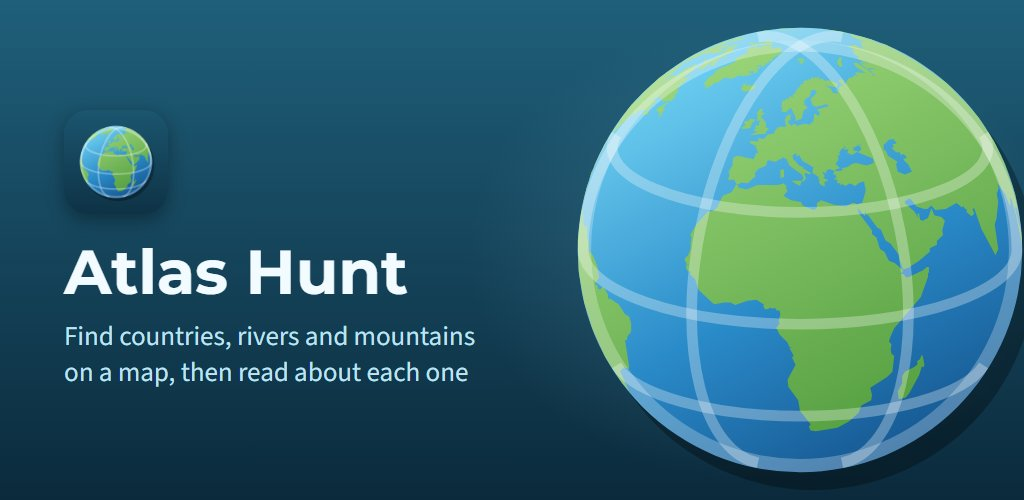
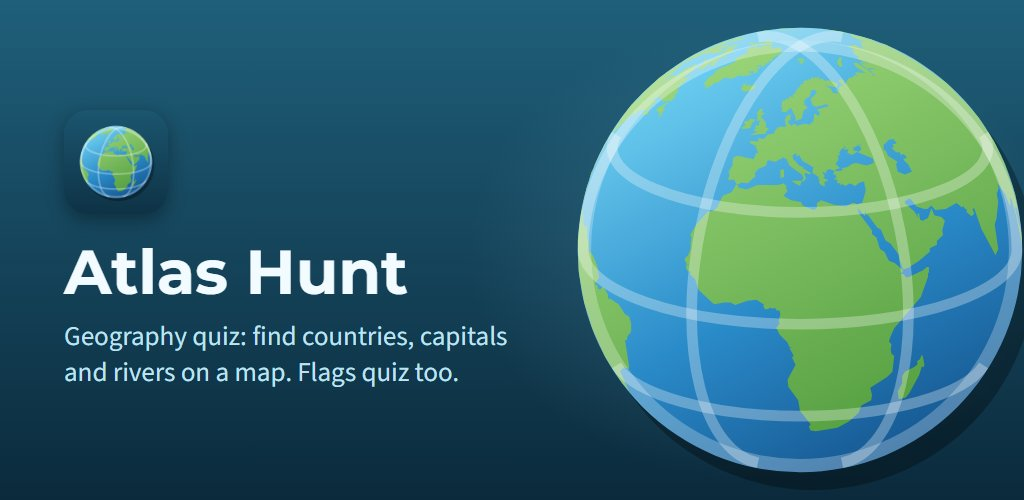
Syllabee's policy covers Silabina; Atlas Hunt pages take the listings' new short descriptions
- syllabee/privacy-policy.md: copied from ../learn_to_read (2cc7201), which adds Silabina (Romanian) as the fifth
  app; its pinned blob in test_site.py follows.
- Atlas Hunt pages: the hero lead, meta description and share image's alt in all six languages take each listing's
  new short description (../atlas_hunt ad2bca9: geography quiz, capitals and flags); the share images are the
  redrawn feature graphics. "How it plays" names countries, capitals and rivers on a blank map instead of the
  shapes of countries, rivers and mountains. The owner reviewed the translated lines.
- Home page: Atlas Hunt's card text is the new en-US short description.

Changed region(s): [[0.0625, 0.66, 0.5, 0.78]]

diff --git a/atlashunt/uk/index.html b/atlashunt/uk/index.html
@@ -5,7 +5,7 @@
 <meta charset="utf-8">
 <meta name="viewport" content="width=device-width, initial-scale=1">
 <title>Atlas Hunt: Map Quiz</title>
-<meta name="description" content="Знаходьте країни, річки й гори на карті та читайте про кожен об’єкт. Безкоштовно для Android: понад 130 ігор з картами шістьма мовами, офлайн.">
+<meta name="description" content="Вікторина з географії: знаходьте країни, столиці й річки на карті. А ще прапори. Безкоштовно для Android: понад 130 ігор з картами шістьма мовами, офлайн.">
 <meta name="theme-color" content="#0B2A3C">
 <link rel="canonical" href="https://forio-dk.github.io/atlashunt/uk/">
 <link rel="alternate" hreflang="en" href="https://forio-dk.github.io/atlashunt/">
@@ -23,12 +23,12 @@
 <meta property="og:type" content="website">
 <meta property="og:site_name" content="Atlas Hunt">
 <meta property="og:title" content="Atlas Hunt: Map Quiz">
-<meta property="og:description" content="Знаходьте країни, річки й гори на карті та читайте про кожен об’єкт. Безкоштовно для Android: понад 130 ігор з картами шістьма мовами, офлайн.">
+<meta property="og:description" content="Вікторина з географії: знаходьте країни, столиці й річки на карті. А ще прапори. Безкоштовно для Android: понад 130 ігор з картами шістьма мовами, офлайн.">
 <meta property="og:url" content="https://forio-dk.github.io/atlashunt/uk/">
 <meta property="og:image" content="https://forio-dk.github.io/atlashunt/assets/img/uk/og.jpg">
 <meta property="og:image:width" content="1024">
 <meta property="og:image:height" content="500">
-<meta property="og:image:alt" content="Atlas Hunt: знаходьте країни, річки й гори на карті та читайте про кожен об’єкт">
+<meta property="og:image:alt" content="Atlas Hunt. Вікторина з географії: знаходьте країни, столиці й річки на карті. А ще прапори.">
 <meta property="og:locale" content="uk_UA">
 <meta property="og:locale:alternate" content="en_US">
 <meta property="og:locale:alternate" content="da_DK">
@@ -36,7 +36,7 @@
 <meta property="og:locale:alternate" content="ro_RO">
 <meta property="og:locale:alternate" content="ru_RU">
 <meta name="twitter:card" content="summary_large_image">
-<script type="application/ld+json">{"@context": "https://schema.org", "@type": "MobileApplication", "applicationCategory": "GameApplication", "author": {"@type": "Organization", "name": "Forio"}, "description": "\u0417\u043d\u0430\u0445\u043e\u0434\u044c\u0442\u0435 \u043a\u0440\u0430\u0457\u043d\u0438, \u0440\u0456\u0447\u043a\u0438 \u0439 \u0433\u043e\u0440\u0438 \u043d\u0430 \u043a\u0430\u0440\u0442\u0456 \u0442\u0430 \u0447\u0438\u0442\u0430\u0439\u0442\u0435 \u043f\u0440\u043e \u043a\u043e\u0436\u0435\u043d \u043e\u0431\u2019\u0454\u043a\u0442.", "downloadUrl": "https://play.google.com/store/apps/details?id=dk.forio.atlashunt\u0026hl=uk\u0026referrer=utm_source%3Dforio-dk.github.io%26utm_medium%3Dwebsite%26utm_campaign%3Datlashunt-home", "image": "https://forio-dk.github.io/atlashunt/assets/img/uk/og.jpg", "inLanguage": "uk", "installUrl": "https://play.google.com/store/apps/details?id=dk.forio.atlashunt\u0026hl=uk\u0026referrer=utm_source%3Dforio-dk.github.io%26utm_medium%3Dwebsite%26utm_campaign%3Datlashunt-home", "name": "Atlas Hunt", "offers": {"@type": "Offer", "price": "0", "priceCurrency": "USD"}, "operatingSystem": "Android 8.0+", "url": "https://forio-dk.github.io/atlashunt/uk/"}</script>
+<script type="application/ld+json">{"@context": "https://schema.org", "@type": "MobileApplication", "applicationCategory": "GameApplication", "author": {"@type": "Organization", "name": "Forio"}, "description": "\u0412\u0456\u043a\u0442\u043e\u0440\u0438\u043d\u0430 \u0437 \u0433\u0435\u043e\u0433\u0440\u0430\u0444\u0456\u0457: \u0437\u043d\u0430\u0445\u043e\u0434\u044c\u0442\u0435 \u043a\u0440\u0430\u0457\u043d\u0438, \u0441\u0442\u043e\u043b\u0438\u0446\u0456 \u0439 \u0440\u0456\u0447\u043a\u0438 \u043d\u0430 \u043a\u0430\u0440\u0442\u0456. \u0410 \u0449\u0435 \u043f\u0440\u0430\u043f\u043e\u0440\u0438.", "downloadUrl": "https://play.google.com/store/apps/details?id=dk.forio.atlashunt\u0026hl=uk\u0026referrer=utm_source%3Dforio-dk.github.io%26utm_medium%3Dwebsite%26utm_campaign%3Datlashunt-home", "image": "https://forio-dk.github.io/atlashunt/assets/img/uk/og.jpg", "inLanguage": "uk", "installUrl": "https://play.google.com/store/apps/details?id=dk.forio.atlashunt\u0026hl=uk\u0026referrer=utm_source%3Dforio-dk.github.io%26utm_medium%3Dwebsite%26utm_campaign%3Datlashunt-home", "name": "Atlas Hunt", "offers": {"@type": "Offer", "price": "0", "priceCurrency": "USD"}, "operatingSystem": "Android 8.0+", "url": "https://forio-dk.github.io/atlashunt/uk/"}</script>
 </head>
 <body>
 <header class="nav">
@@ -56,7 +56,7 @@
   <section class="hero">
     <div class="hero-text">
       <h1>Atlas Hunt</h1>
-      <p class="lead">Знаходьте країни, річки й гори на карті та читайте про кожен об’єкт.</p>
+      <p class="lead">Вікторина з географії: знаходьте країни, столиці й річки на карті. А ще прапори.</p>
       <a class="play" href="https://play.google.com/store/apps/details?id=dk.forio.atlashunt&amp;hl=uk&amp;referrer=utm_source%3Dforio-dk.github.io%26utm_medium%3Dwebsite%26utm_campaign%3Datlashunt-home"><img src="/assets/badges/uk.png" width="646" height="250" alt="Завантажити з Google Play"></a>
       <p class="facts">Безкоштовно · 130+ ігор · Шість мов · Працює офлайн</p>
     </div>
@@ -71,7 +71,7 @@
 
   <section class="how">
     <h2>Як грати</h2>
-    <p class="sub">Ні підписів, ні підказок: лише обриси країн, річок і гір.</p>
+    <p class="sub">Ні підписів, ні підказок: лише країни, столиці й річки на порожній карті.</p>
     <ol class="steps numbered">
       <li>
         <img src="/atlashunt/assets/img/uk/step-1-200.webp" srcset="/atlashunt/assets/img/uk/step-1-200.webp 200w, /atlashunt/assets/img/uk/step-1-400.webp 400w" sizes="200px" width="200" height="356" alt="Ігри Європи: країни, столиці, річки, гірські хребти та інші" loading="lazy">

diff --git a/atlashunt/ru/index.html b/atlashunt/ru/index.html
@@ -5,7 +5,7 @@
 <meta charset="utf-8">
 <meta name="viewport" content="width=device-width, initial-scale=1">
 <title>Atlas Hunt: Map Quiz</title>
-<meta name="description" content="Находите страны, реки и горы на карте и читайте о каждом объекте. Бесплатно для Android: более 130 игр по картам на шести языках, офлайн.">
+<meta name="description" content="Викторина по географии: находите страны, столицы и реки на карте. А ещё флаги. Бесплатно для Android: более 130 игр по картам на шести языках, офлайн.">
 <meta name="theme-color" content="#0B2A3C">
 <link rel="canonical" href="https://forio-dk.github.io/atlashunt/ru/">
 <link rel="alternate" hreflang="en" href="https://forio-dk.github.io/atlashunt/">
@@ -23,12 +23,12 @@
 <meta property="og:type" content="website">
 <meta property="og:site_name" content="Atlas Hunt">
 <meta property="og:title" content="Atlas Hunt: Map Quiz">
-<meta property="og:description" content="Находите страны, реки и горы на карте и читайте о каждом объекте. Бесплатно для Android: более 130 игр по картам на шести языках, офлайн.">
+<meta property="og:description" content="Викторина по географии: находите страны, столицы и реки на карте. А ещё флаги. Бесплатно для Android: более 130 игр по картам на шести языках, офлайн.">
 <meta property="og:url" content="https://forio-dk.github.io/atlashunt/ru/">
 <meta property="og:image" content="https://forio-dk.github.io/atlashunt/assets/img/ru/og.jpg">
 <meta property="og:image:width" content="1024">
 <meta property="og:image:height" content="500">
-<meta property="og:image:alt" content="Atlas Hunt: находите страны, реки и горы на карте и читайте о каждом объекте">
+<meta property="og:image:alt" content="Atlas Hunt. Викторина по географии: находите страны, столицы и реки на карте. А ещё флаги.">
 <meta property="og:locale" content="ru_RU">
 <meta property="og:locale:alternate" content="en_US">
 <meta property="og:locale:alternate" content="da_DK">
@@ -36,7 +36,7 @@
 <meta property="og:locale:alternate" content="ro_RO">
 <meta property="og:locale:alternate" content="uk_UA">
 <meta name="twitter:card" content="summary_large_image">
-<script type="application/ld+json">{"@context": "https://schema.org", "@type": "MobileApplication", "applicationCategory": "GameApplication", "author": {"@type": "Organization", "name": "Forio"}, "description": "\u041d\u0430\u0445\u043e\u0434\u0438\u0442\u0435 \u0441\u0442\u0440\u0430\u043d\u044b, \u0440\u0435\u043a\u0438 \u0438 \u0433\u043e\u0440\u044b \u043d\u0430 \u043a\u0430\u0440\u0442\u0435 \u0438 \u0447\u0438\u0442\u0430\u0439\u0442\u0435 \u043e \u043a\u0430\u0436\u0434\u043e\u043c \u043e\u0431\u044a\u0435\u043a\u0442\u0435.", "downloadUrl": "https://play.google.com/store/apps/details?id=dk.forio.atlashunt\u0026hl=ru\u0026referrer=utm_source%3Dforio-dk.github.io%26utm_medium%3Dwebsite%26utm_campaign%3Datlashunt-home", "image": "https://forio-dk.github.io/atlashunt/assets/img/ru/og.jpg", "inLanguage": "ru", "installUrl": "https://play.google.com/store/apps/details?id=dk.forio.atlashunt\u0026hl=ru\u0026referrer=utm_source%3Dforio-dk.github.io%26utm_medium%3Dwebsite%26utm_campaign%3Datlashunt-home", "name": "Atlas Hunt", "offers": {"@type": "Offer", "price": "0", "priceCurrency": "USD"}, "operatingSystem": "Android 8.0+", "url": "https://forio-dk.github.io/atlashunt/ru/"}</script>
+<script type="application/ld+json">{"@context": "https://schema.org", "@type": "MobileApplication", "applicationCategory": "GameApplication", "author": {"@type": "Organization", "name": "Forio"}, "description": "\u0412\u0438\u043a\u0442\u043e\u0440\u0438\u043d\u0430 \u043f\u043e \u0433\u0435\u043e\u0433\u0440\u0430\u0444\u0438\u0438: \u043d\u0430\u0445\u043e\u0434\u0438\u0442\u0435 \u0441\u0442\u0440\u0430\u043d\u044b, \u0441\u0442\u043e\u043b\u0438\u0446\u044b \u0438 \u0440\u0435\u043a\u0438 \u043d\u0430 \u043a\u0430\u0440\u0442\u0435. \u0410 \u0435\u0449\u0451 \u0444\u043b\u0430\u0433\u0438.", "downloadUrl": "https://play.google.com/store/apps/details?id=dk.forio.atlashunt\u0026hl=ru\u0026referrer=utm_source%3Dforio-dk.github.io%26utm_medium%3Dwebsite%26utm_campaign%3Datlashunt-home", "image": "https://forio-dk.github.io/atlashunt/assets/img/ru/og.jpg", "inLanguage": "ru", "installUrl": "https://play.google.com/store/apps/details?id=dk.forio.atlashunt\u0026hl=ru\u0026referrer=utm_source%3Dforio-dk.github.io%26utm_medium%3Dwebsite%26utm_campaign%3Datlashunt-home", "name": "Atlas Hunt", "offers": {"@type": "Offer", "price": "0", "priceCurrency": "USD"}, "operatingSystem": "Android 8.0+", "url": "https://forio-dk.github.io/atlashunt/ru/"}</script>
 </head>
 <body>
 <header class="nav">
@@ -56,7 +56,7 @@
   <section class="hero">
     <div class="hero-text">
       <h1>Atlas Hunt</h1>
-      <p class="lead">Находите страны, реки и горы на карте и читайте о каждом объекте.</p>
+      <p class="lead">Викторина по географии: находите страны, столицы и реки на карте. А ещё флаги.</p>
       <a class="play" href="https://play.google.com/store/apps/details?id=dk.forio.atlashunt&amp;hl=ru&amp;referrer=utm_source%3Dforio-dk.github.io%26utm_medium%3Dwebsite%26utm_campaign%3Datlashunt-home"><img src="/assets/badges/ru.png" width="646" height="250" alt="Скачать из Google Play"></a>
       <p class="facts">Бесплатно · 130+ игр · Шесть языков · Работает офлайн</p>
     </div>
@@ -71,7 +71,7 @@
 
   <section class="how">
     <h2>Как играть</h2>
-    <p class="sub">Ни подписей, ни подсказок: только очертания стран, рек и гор.</p>
+    <p class="sub">Ни подписей, ни подсказок: только страны, столицы и реки на пустой карте.</p>
     <ol class="steps numbered">
       <li>
         <img src="/atlashunt/assets/img/ru/step-1-200.webp" srcset="/atlashunt/assets/img/ru/step-1-200.webp 200w, /atlashunt/assets/img/ru/step-1-400.webp 400w" sizes="200px" width="200" height="356" alt="Игры Европы: страны, столицы, реки, горные хребты и другие" loading="lazy">

diff --git a/atlashunt/ro/index.html b/atlashunt/ro/index.html
@@ -5,7 +5,7 @@
 <meta charset="utf-8">
 <meta name="viewport" content="width=device-width, initial-scale=1">
 <title>Atlas Hunt: Map Quiz</title>
-<meta name="description" content="Găsește țări, râuri și munți pe hartă, apoi citește despre fiecare. Gratuit pentru Android: peste 130 de jocuri pe hărți, în șase limbi, offline.">
+<meta name="description" content="Quiz de geografie: găsește țări, capitale și râuri pe hartă. Și steagurile. Gratuit pentru Android: peste 130 de jocuri pe hărți, în șase limbi, offline.">
 <meta name="theme-color" content="#0B2A3C">
 <link rel="canonical" href="https://forio-dk.github.io/atlashunt/ro/">
 <link rel="alternate" hreflang="en" href="https://forio-dk.github.io/atlashunt/">
@@ -23,12 +23,12 @@
 <meta property="og:type" content="website">
 <meta property="og:site_name" content="Atlas Hunt">
 <meta property="og:title" content="Atlas Hunt: Map Quiz">
-<meta property="og:description" content="Găsește țări, râuri și munți pe hartă, apoi citește despre fiecare. Gratuit pentru Android: peste 130 de jocuri pe hărți, în șase limbi, offline.">
+<meta property="og:description" content="Quiz de geografie: găsește țări, capitale și râuri pe hartă. Și steagurile. Gratuit pentru Android: peste 130 de jocuri pe hărți, în șase limbi, offline.">
 <meta property="og:url" content="https://forio-dk.github.io/atlashunt/ro/">
 <meta property="og:image" content="https://forio-dk.github.io/atlashunt/assets/img/ro/og.jpg">
 <meta property="og:image:width" content="1024">
 <meta property="og:image:height" content="500">
-<meta property="og:image:alt" content="Atlas Hunt: găsește țări, râuri și munți pe hartă, apoi citește despre fiecare">
+<meta property="og:image:alt" content="Atlas Hunt. Quiz de geografie: găsește țări, capitale și râuri pe hartă. Și steagurile.">
 <meta property="og:locale" content="ro_RO">
 <meta property="og:locale:alternate" content="en_US">
 <meta property="og:locale:alternate" content="da_DK">
@@ -36,7 +36,7 @@
 <meta property="og:locale:alternate" content="ru_RU">
 <meta property="og:locale:alternate" content="uk_UA">
 <meta name="twitter:card" content="summary_large_image">
-<script type="application/ld+json">{"@context": "https://schema.org", "@type": "MobileApplication", "applicationCategory": "GameApplication", "author": {"@type": "Organization", "name": "Forio"}, "description": "G\u0103se\u0219te \u021b\u0103ri, r\u00e2uri \u0219i mun\u021bi pe hart\u0103, apoi cite\u0219te despre fiecare.", "downloadUrl": "https://play.google.com/store/apps/details?id=dk.forio.atlashunt\u0026hl=ro\u0026referrer=utm_source%3Dforio-dk.github.io%26utm_medium%3Dwebsite%26utm_campaign%3Datlashunt-home", "image": "https://forio-dk.github.io/atlashunt/assets/img/ro/og.jpg", "inLanguage": "ro", "installUrl": "https://play.google.com/store/apps/details?id=dk.forio.atlashunt\u0026hl=ro\u0026referrer=utm_source%3Dforio-dk.github.io%26utm_medium%3Dwebsite%26utm_campaign%3Datlashunt-home", "name": "Atlas Hunt", "offers": {"@type": "Offer", "price": "0", "priceCurrency": "USD"}, "operatingSystem": "Android 8.0+", "url": "https://forio-dk.github.io/atlashunt/ro/"}</script>
+<script type="application/ld+json">{"@context": "https://schema.org", "@type": "MobileApplication", "applicationCategory": "GameApplication", "author": {"@type": "Organization", "name": "Forio"}, "description": "Quiz de geografie: g\u0103se\u0219te \u021b\u0103ri, capitale \u0219i r\u00e2uri pe hart\u0103. \u0218i steagurile.", "downloadUrl": "https://play.google.com/store/apps/details?id=dk.forio.atlashunt\u0026hl=ro\u0026referrer=utm_source%3Dforio-dk.github.io%26utm_medium%3Dwebsite%26utm_campaign%3Datlashunt-home", "image": "https://forio-dk.github.io/atlashunt/assets/img/ro/og.jpg", "inLanguage": "ro", "installUrl": "https://play.google.com/store/apps/details?id=dk.forio.atlashunt\u0026hl=ro\u0026referrer=utm_source%3Dforio-dk.github.io%26utm_medium%3Dwebsite%26utm_campaign%3Datlashunt-home", "name": "Atlas Hunt", "offers": {"@type": "Offer", "price": "0", "priceCurrency": "USD"}, "operatingSystem": "Android 8.0+", "url": "https://forio-dk.github.io/atlashunt/ro/"}</script>
 </head>
 <body>
 <header class="nav">
@@ -56,7 +56,7 @@
   <section class="hero">
     <div class="hero-text">
       <h1>Atlas Hunt</h1>
-      <p class="lead">Găsește țări, râuri și munți pe hartă, apoi citește despre fiecare.</p>
+      <p class="lead">Quiz de geografie: găsește țări, capitale și râuri pe hartă. Și steagurile.</p>
       <a class="play" href="https://play.google.com/store/apps/details?id=dk.forio.atlashunt&amp;hl=ro&amp;referrer=utm_source%3Dforio-dk.github.io%26utm_medium%3Dwebsite%26utm_campaign%3Datlashunt-home"><img src="/assets/badges/ro.png" width="646" height="250" alt="Descarcă de pe Google Play"></a>
       <p class="facts">Gratuit · 130+ de jocuri · Șase limbi · Funcționează offline</p>
     </div>
@@ -71,7 +71,7 @@
 
   <section class="how">
     <h2>Cum se joacă</h2>
-    <p class="sub">Fără nume, fără indicii: doar formele țărilor, râurilor și munților.</p>
+    <p class="sub">Fără nume, fără indicii: doar țări, capitale și râuri pe o hartă goală.</p>
     <ol class="steps numbered">
       <li>
         <img src="/atlashunt/assets/img/ro/step-1-200.webp" srcset="/atlashunt/assets/img/ro/step-1-200.webp 200w, /atlashunt/assets/img/ro/step-1-400.webp 400w" sizes="200px" width="200" height="356" alt="Jocurile Europei: țări, capitale, râuri, lanțuri muntoase și altele" loading="lazy">

diff --git a/atlashunt/da/index.html b/atlashunt/da/index.html
@@ -5,7 +5,7 @@
 <meta charset="utf-8">
 <meta name="viewport" content="width=device-width, initial-scale=1">
 <title>Atlas Hunt: Map Quiz</title>
-<meta name="description" content="Find lande, floder og bjerge på et kort, og læs så om hvert af dem. Gratis til Android: 130+ kortspil på seks sprog, offline.">
+<meta name="description" content="Quiz i geografi: find lande, hovedstæder og floder på et kort. Plus en flagquiz. Gratis til Android: 130+ kortspil på seks sprog, offline.">
 <meta name="theme-color" content="#0B2A3C">
 <link rel="canonical" href="https://forio-dk.github.io/atlashunt/da/">
 <link rel="alternate" hreflang="en" href="https://forio-dk.github.io/atlashunt/">
@@ -23,12 +23,12 @@
 <meta property="og:type" content="website">
 <meta property="og:site_name" content="Atlas Hunt">
 <meta property="og:title" content="Atlas Hunt: Map Quiz">
-<meta property="og:description" content="Find lande, floder og bjerge på et kort, og læs så om hvert af dem. Gratis til Android: 130+ kortspil på seks sprog, offline.">
+<meta property="og:description" content="Quiz i geografi: find lande, hovedstæder og floder på et kort. Plus en flagquiz. Gratis til Android: 130+ kortspil på seks sprog, offline.">
 <meta property="og:url" content="https://forio-dk.github.io/atlashunt/da/">
 <meta property="og:image" content="https://forio-dk.github.io/atlashunt/assets/img/da/og.jpg">
 <meta property="og:image:width" content="1024">
 <meta property="og:image:height" content="500">
-<meta property="og:image:alt" content="Atlas Hunt: find lande, floder og bjerge på et kort, og læs så om hvert af dem">
+<meta property="og:image:alt" content="Atlas Hunt. Quiz i geografi: find lande, hovedstæder og floder på et kort. Plus en flagquiz.">
 <meta property="og:locale" content="da_DK">
 <meta property="og:locale:alternate" content="en_US">
 <meta property="og:locale:alternate" content="it_IT">
@@ -36,7 +36,7 @@
 <meta property="og:locale:alternate" content="ru_RU">
 <meta property="og:locale:alternate" content="uk_UA">
 <meta name="twitter:card" content="summary_large_image">
-<script type="application/ld+json">{"@context": "https://schema.org", "@type": "MobileApplication", "applicationCategory": "GameApplication", "author": {"@type": "Organization", "name": "Forio"}, "description": "Find lande, floder og bjerge p\u00e5 et kort, og l\u00e6s s\u00e5 om hvert af dem.", "downloadUrl": "https://play.google.com/store/apps/details?id=dk.forio.atlashunt\u0026hl=da\u0026referrer=utm_source%3Dforio-dk.github.io%26utm_medium%3Dwebsite%26utm_campaign%3Datlashunt-home", "image": "https://forio-dk.github.io/atlashunt/assets/img/da/og.jpg", "inLanguage": "da", "installUrl": "https://play.google.com/store/apps/details?id=dk.forio.atlashunt\u0026hl=da\u0026referrer=utm_source%3Dforio-dk.github.io%26utm_medium%3Dwebsite%26utm_campaign%3Datlashunt-home", "name": "Atlas Hunt", "offers": {"@type": "Offer", "price": "0", "priceCurrency": "USD"}, "operatingSystem": "Android 8.0+", "url": "https://forio-dk.github.io/atlashunt/da/"}</script>
+<script type="application/ld+json">{"@context": "https://schema.org", "@type": "MobileApplication", "applicationCategory": "GameApplication", "author": {"@type": "Organization", "name": "Forio"}, "description": "Quiz i geografi: find lande, hovedst\u00e6der og floder p\u00e5 et kort. Plus en flagquiz.", "downloadUrl": "https://play.google.com/store/apps/details?id=dk.forio.atlashunt\u0026hl=da\u0026referrer=utm_source%3Dforio-dk.github.io%26utm_medium%3Dwebsite%26utm_campaign%3Datlashunt-home", "image": "https://forio-dk.github.io/atlashunt/assets/img/da/og.jpg", "inLanguage": "da", "installUrl": "https://play.google.com/store/apps/details?id=dk.forio.atlashunt\u0026hl=da\u0026referrer=utm_source%3Dforio-dk.github.io%26utm_medium%3Dwebsite%26utm_campaign%3Datlashunt-home", "name": "Atlas Hunt", "offers": {"@type": "Offer", "price": "0", "priceCurrency": "USD"}, "operatingSystem": "Android 8.0+", "url": "https://forio-dk.github.io/atlashunt/da/"}</script>
 </head>
 <body>
 <header class="nav">
@@ -56,7 +56,7 @@
   <section class="hero">
     <div class="hero-text">
       <h1>Atlas Hunt</h1>
-      <p class="lead">Find lande, floder og bjerge på et kort, og læs så om hvert af dem.</p>
+      <p class="lead">Quiz i geografi: find lande, hovedstæder og floder på et kort. Plus en flagquiz.</p>
       <a class="play" href="https://play.google.com/store/apps/details?id=dk.forio.atlashunt&amp;hl=da&amp;referrer=utm_source%3Dforio-dk.github.io%26utm_medium%3Dwebsite%26utm_campaign%3Datlashunt-home"><img src="/assets/badges/da.png" width="646" height="250" alt="Hent i Google Play"></a>
       <p class="facts">Gratis · 130+ spil · Seks sprog · Virker offline</p>
     </div>
@@ -71,7 +71,7 @@
 
   <section class="how">
     <h2>Sådan spiller du</h2>
-    <p class="sub">Ingen navne, ingen hints: kun omridsene af lande, floder og bjerge.</p>
+    <p class="sub">Ingen navne, ingen hints: kun lande, hovedstæder og floder på et tomt kort.</p>
     <ol class="steps numbered">
       <li>
         <img src="/atlashunt/assets/img/da/step-1-200.webp" srcset="/atlashunt/assets/img/da/step-1-200.webp 200w, /atlashunt/assets/img/da/step-1-400.webp 400w" sizes="200px" width="200" height="356" alt="Europas spil: lande, hovedstæder, floder, bjergkæder og mere" loading="lazy">

diff --git a/atlashunt/it/index.html b/atlashunt/it/index.html
@@ -5,7 +5,7 @@
 <meta charset="utf-8">
 <meta name="viewport" content="width=device-width, initial-scale=1">
 <title>Atlas Hunt: Map Quiz</title>
-<meta name="description" content="Trova paesi, fiumi e montagne sulla mappa, poi leggi di ciascuno. Gratis per Android: oltre 130 giochi sulle mappe in sei lingue, offline.">
+<meta name="description" content="Quiz di geografia: trova paesi, capitali e fiumi sulla mappa. E le bandiere. Gratis per Android: oltre 130 giochi sulle mappe in sei lingue, offline.">
 <meta name="theme-color" content="#0B2A3C">
 <link rel="canonical" href="https://forio-dk.github.io/atlashunt/it/">
 <link rel="alternate" hreflang="en" href="https://forio-dk.github.io/atlashunt/">
@@ -23,12 +23,12 @@
 <meta property="og:type" content="website">
 <meta property="og:site_name" content="Atlas Hunt">
 <meta property="og:title" content="Atlas Hunt: Map Quiz">
-<meta property="og:description" content="Trova paesi, fiumi e montagne sulla mappa, poi leggi di ciascuno. Gratis per Android: oltre 130 giochi sulle mappe in sei lingue, offline.">
+<meta property="og:description" content="Quiz di geografia: trova paesi, capitali e fiumi sulla mappa. E le bandiere. Gratis per Android: oltre 130 giochi sulle mappe in sei lingue, offline.">
 <meta property="og:url" content="https://forio-dk.github.io/atlashunt/it/">
 <meta property="og:image" content="https://forio-dk.github.io/atlashunt/assets/img/it/og.jpg">
 <meta property="og:image:width" content="1024">
 <meta property="og:image:height" content="500">
-<meta property="og:image:alt" content="Atlas Hunt: trova paesi, fiumi e montagne sulla mappa, poi leggi di ciascuno">
+<meta property="og:image:alt" content="Atlas Hunt. Quiz di geografia: trova paesi, capitali e fiumi sulla mappa. E le bandiere.">
 <meta property="og:locale" content="it_IT">
 <meta property="og:locale:alternate" content="en_US">
 <meta property="og:locale:alternate" content="da_DK">
@@ -36,7 +36,7 @@
 <meta property="og:locale:alternate" content="ru_RU">
 <meta property="og:locale:alternate" content="uk_UA">
 <meta name="twitter:card" content="summary_large_image">
-<script type="application/ld+json">{"@context": "https://schema.org", "@type": "MobileApplication", "applicationCategory": "GameApplication", "author": {"@type": "Organization", "name": "Forio"}, "description": "Trova paesi, fiumi e montagne sulla mappa, poi leggi di ciascuno.", "downloadUrl": "https://play.google.com/store/apps/details?id=dk.forio.atlashunt\u0026hl=it\u0026referrer=utm_source%3Dforio-dk.github.io%26utm_medium%3Dwebsite%26utm_campaign%3Datlashunt-home", "image": "https://forio-dk.github.io/atlashunt/assets/img/it/og.jpg", "inLanguage": "it", "installUrl": "https://play.google.com/store/apps/details?id=dk.forio.atlashunt\u0026hl=it\u0026referrer=utm_source%3Dforio-dk.github.io%26utm_medium%3Dwebsite%26utm_campaign%3Datlashunt-home", "name": "Atlas Hunt", "offers": {"@type": "Offer", "price": "0", "priceCurrency": "USD"}, "operatingSystem": "Android 8.0+", "url": "https://forio-dk.github.io/atlashunt/it/"}</script>
+<script type="application/ld+json">{"@context": "https://schema.org", "@type": "MobileApplication", "applicationCategory": "GameApplication", "author": {"@type": "Organization", "name": "Forio"}, "description": "Quiz di geografia: trova paesi, capitali e fiumi sulla mappa. E le bandiere.", "downloadUrl": "https://play.google.com/store/apps/details?id=dk.forio.atlashunt\u0026hl=it\u0026referrer=utm_source%3Dforio-dk.github.io%26utm_medium%3Dwebsite%26utm_campaign%3Datlashunt-home", "image": "https://forio-dk.github.io/atlashunt/assets/img/it/og.jpg", "inLanguage": "it", "installUrl": "https://play.google.com/store/apps/details?id=dk.forio.atlashunt\u0026hl=it\u0026referrer=utm_source%3Dforio-dk.github.io%26utm_medium%3Dwebsite%26utm_campaign%3Datlashunt-home", "name": "Atlas Hunt", "offers": {"@type": "Offer", "price": "0", "priceCurrency": "USD"}, "operatingSystem": "Android 8.0+", "url": "https://forio-dk.github.io/atlashunt/it/"}</script>
 </head>
 <body>
 <header class="nav">
@@ -56,7 +56,7 @@
   <section class="hero">
     <div class="hero-text">
       <h1>Atlas Hunt</h1>
-      <p class="lead">Trova paesi, fiumi e montagne sulla mappa, poi leggi di ciascuno.</p>
+      <p class="lead">Quiz di geografia: trova paesi, capitali e fiumi sulla mappa. E le bandiere.</p>
       <a class="play" href="https://play.google.com/store/apps/details?id=dk.forio.atlashunt&amp;hl=it&amp;referrer=utm_source%3Dforio-dk.github.io%26utm_medium%3Dwebsite%26utm_campaign%3Datlashunt-home"><img src="/assets/badges/it.png" width="646" height="250" alt="Disponibile su Google Play"></a>
       <p class="facts">Gratis · 130+ giochi · Sei lingue · Funziona offline</p>
     </div>
@@ -71,7 +71,7 @@
 
   <section class="how">
     <h2>Come si gioca</h2>
-    <p class="sub">Niente nomi, niente indizi: solo le forme di paesi, fiumi e montagne.</p>
+    <p class="sub">Niente nomi, niente indizi: solo paesi, capitali e fiumi su una mappa muta.</p>
     <ol class="steps numbered">
       <li>
         <img src="/atlashunt/assets/img/it/step-1-200.webp" srcset="/atlashunt/assets/img/it/step-1-200.webp 200w, /atlashunt/assets/img/it/step-1-400.webp 400w" sizes="200px" width="200" height="356" alt="I giochi dell&#39;Europa: paesi, capitali, fiumi, catene montuose e altro" loading="lazy">

diff --git a/atlashunt/index.html b/atlashunt/index.html
@@ -5,7 +5,7 @@
 <meta charset="utf-8">
 <meta name="viewport" content="width=device-width, initial-scale=1">
 <title>Atlas Hunt: Map Quiz</title>
-<meta name="description" content="Find countries, rivers and mountains on a map, then read about each one. Free for Android: 130+ map games in six languages, offline.">
+<meta name="description" content="Geography quiz: find countries, capitals and rivers on a map. Flags quiz too. Free for Android: 130+ map games in six languages, offline.">
 <meta name="theme-color" content="#0B2A3C">
 <link rel="canonical" href="https://forio-dk.github.io/atlashunt/">
 <link rel="alternate" hreflang="en" href="https://forio-dk.github.io/atlashunt/">
@@ -23,12 +23,12 @@
 <meta property="og:type" content="website">
 <meta property="og:site_name" content="Atlas Hunt">
 <meta property="og:title" content="Atlas Hunt: Map Quiz">
-<meta property="og:description" content="Find countries, rivers and mountains on a map, then read about each one. Free for Android: 130+ map games in six languages, offline.">
+<meta property="og:description" content="Geography quiz: find countries, capitals and rivers on a map. Flags quiz too. Free for Android: 130+ map games in six languages, offline.">
 <meta property="og:url" content="https://forio-dk.github.io/atlashunt/">
 <meta property="og:image" content="https://forio-dk.github.io/atlashunt/assets/img/en/og.jpg">
 <meta property="og:image:width" content="1024">
 <meta property="og:image:height" content="500">
-<meta property="og:image:alt" content="Atlas Hunt: find countries, rivers and mountains on a map, then read about each one">
+<meta property="og:image:alt" content="Atlas Hunt. Geography quiz: find countries, capitals and rivers on a map. Flags quiz too.">
 <meta property="og:locale" content="en_US">
 <meta property="og:locale:alternate" content="da_DK">
 <meta property="og:locale:alternate" content="it_IT">
@@ -36,7 +36,7 @@
 <meta property="og:locale:alternate" content="ru_RU">
 <meta property="og:locale:alternate" content="uk_UA">
 <meta name="twitter:card" content="summary_large_image">
-<script type="application/ld+json">{"@context": "https://schema.org", "@type": "MobileApplication", "applicationCategory": "GameApplication", "author": {"@type": "Organization", "name": "Forio"}, "description": "Find countries, rivers and mountains on a map, then read about each one.", "downloadUrl": "https://play.google.com/store/apps/details?id=dk.forio.atlashunt\u0026hl=en\u0026referrer=utm_source%3Dforio-dk.github.io%26utm_medium%3Dwebsite%26utm_campaign%3Datlashunt-home", "image": "https://forio-dk.github.io/atlashunt/assets/img/en/og.jpg", "inLanguage": "en", "installUrl": "https://play.google.com/store/apps/details?id=dk.forio.atlashunt\u0026hl=en\u0026referrer=utm_source%3Dforio-dk.github.io%26utm_medium%3Dwebsite%26utm_campaign%3Datlashunt-home", "name": "Atlas Hunt", "offers": {"@type": "Offer", "price": "0", "priceCurrency": "USD"}, "operatingSystem": "Android 8.0+", "url": "https://forio-dk.github.io/atlashunt/"}</script>
+<script type="application/ld+json">{"@context": "https://schema.org", "@type": "MobileApplication", "applicationCategory": "GameApplication", "author": {"@type": "Organization", "name": "Forio"}, "description": "Geography quiz: find countries, capitals and rivers on a map. Flags quiz too.", "downloadUrl": "https://play.google.com/store/apps/details?id=dk.forio.atlashunt\u0026hl=en\u0026referrer=utm_source%3Dforio-dk.github.io%26utm_medium%3Dwebsite%26utm_campaign%3Datlashunt-home", "image": "https://forio-dk.github.io/atlashunt/assets/img/en/og.jpg", "inLanguage": "en", "installUrl": "https://play.google.com/store/apps/details?id=dk.forio.atlashunt\u0026hl=en\u0026referrer=utm_source%3Dforio-dk.github.io%26utm_medium%3Dwebsite%26utm_campaign%3Datlashunt-home", "name": "Atlas Hunt", "offers": {"@type": "Offer", "price": "0", "priceCurrency": "USD"}, "operatingSystem": "Android 8.0+", "url": "https://forio-dk.github.io/atlashunt/"}</script>
 </head>
 <body>
 <header class="nav">
@@ -56,7 +56,7 @@
   <section class="hero">
     <div class="hero-text">
       <h1>Atlas Hunt</h1>
-      <p class="lead">Find countries, rivers and mountains on a map, then read about each one.</p>
+      <p class="lead">Geography quiz: find countries, capitals and rivers on a map. Flags quiz too.</p>
       <a class="play" href="https://play.google.com/store/apps/details?id=dk.forio.atlashunt&amp;hl=en&amp;referrer=utm_source%3Dforio-dk.github.io%26utm_medium%3Dwebsite%26utm_campaign%3Datlashunt-home"><img src="/assets/badges/en.png" width="646" height="250" alt="Get it on Google Play"></a>
       <p class="facts">Free · 130+ games · Six languages · Works offline</p>
     </div>
@@ -71,7 +71,7 @@
 
   <section class="how">
     <h2>How it plays</h2>
-    <p class="sub">No labels, no hints: only the shapes of the countries, rivers and mountains.</p>
+    <p class="sub">No labels, no hints: only the countries, capitals and rivers on a blank map.</p>
     <ol class="steps numbered">
       <li>
         <img src="/atlashunt/assets/img/en/step-1-200.webp" srcset="/atlashunt/assets/img/en/step-1-200.webp 200w, /atlashunt/assets/img/en/step-1-400.webp 400w" sizes="200px" width="200" height="356" alt="The games of Europe: its countries, capitals, rivers, mountain ranges and more" loading="lazy">

diff --git a/index.html b/index.html
@@ -39,7 +39,7 @@
       <li class="app">
         <img src="/assets/img/apps/atlas-hunt-96.webp" srcset="/assets/img/apps/atlas-hunt-96.webp 96w, /assets/img/apps/atlas-hunt-192.webp 192w" sizes="96px" width="96" height="96" alt="">
         <h2>Atlas Hunt</h2>
-        <p>Find countries, rivers and mountains on a map, then read about each one.</p>
+        <p>Geography quiz: find countries, capitals and rivers on a map. Flags quiz too.</p>
         <a class="app-link" href="/atlashunt/">See the app</a>
         <a class="policy" href="/atlashunt/privacy-policy.html">Privacy policy</a>
       </li>

diff --git a/_build/site/home.html b/_build/site/home.html
@@ -42,7 +42,7 @@
       <li class="app">
         {{ icon(p.atlas_hunt) }}
         <h2>Atlas Hunt</h2>
-        <p>Find countries, rivers and mountains on a map, then read about each one.</p>
+        <p>Geography quiz: find countries, capitals and rivers on a map. Flags quiz too.</p>
         <a class="app-link" href="/atlashunt/">See the app</a>
         <a class="policy" href="/atlashunt/privacy-policy.html">Privacy policy</a>
       </li>

diff --git a/_build/site/tests/test_site.py b/_build/site/tests/test_site.py
@@ -20,7 +20,7 @@ CSS_FILES = [CSS, ASSETS / "theme.css", ATLAS_THEME, SYLLABEE_THEME]
 POLICY_BLOBS = {
     "artwidget/privacy-policy.md": "f918c89c82a0fb2b8b6995b715848743abb632f1",
     "atlashunt/privacy-policy.md": "712154b31602b8bcb454efe4576031d4472d8a25",
-    "syllabee/privacy-policy.md": "0a694112f7a71f03e41caf4fda66205846e2742c",
+    "syllabee/privacy-policy.md": "7d844b386b611ccaf15bab42513bc296163e5636",
 }
 HOME = ROOT / "index.html"
 STYLE_URL = re.compile(r"""url\(\s*["']?([^"')]+)["']?\s*\)""")

diff --git a/_build/site/tests/test_render.py b/_build/site/tests/test_render.py
@@ -133,7 +133,7 @@ class RenderTest(unittest.TestCase):
 
 DESCRIPTIONS = (
     "A famous work of art on your home screen, a different one every day.",
-    "Find countries, rivers and mountains on a map, then read about each one.",
+    "Geography quiz: find countries, capitals and rivers on a map. Flags quiz too.",
     "Learn to read by syllables: four gentle games with pictures and a friendly voice",
     "Also Stavebi, ",
 )

diff --git a/syllabee/privacy-policy.md b/syllabee/privacy-policy.md
@@ -1,4 +1,4 @@
-# Privacy policy: Stavebi, Syllabee, Складарик and Слогарик
+# Privacy policy: Stavebi, Syllabee, Silabina, Складарик and Слогарик
 
 **Effective date:** 15 November 2026
 
@@ -6,10 +6,10 @@
 
 ## Who the app is for
 
-Stavebi, Syllabee, Складарик and Слогарик are one reading app in four languages, for children under 13 who are
-learning to read Danish (Stavebi), English (Syllabee), Ukrainian (Складарик) or Russian (Слогарик), and for the parents
-who choose it for them. This policy covers all four: they collect, store and share exactly the same things, and "the
-app" below means any of them.
+Stavebi, Syllabee, Silabina, Складарик and Слогарик are one reading app in five languages, for children under 13 who
+are learning to read Danish (Stavebi), English (Syllabee), Romanian (Silabina), Ukrainian (Складарик) or Russian
+(Слогарик), and for the parents who choose it for them. This policy covers all five: they collect, store and share
+exactly the same things, and "the app" below means any of them.
 
 ## What the app itself collects
 
